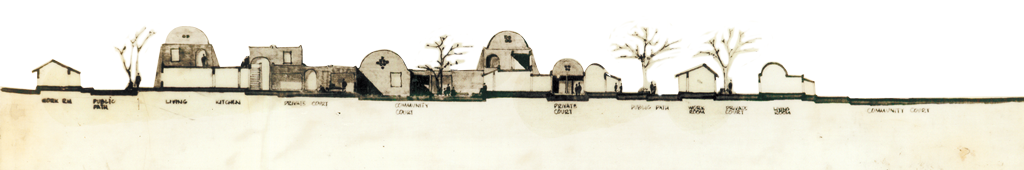
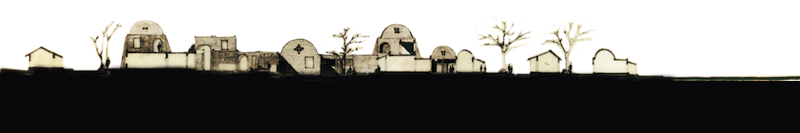
images

diff --git a/js/resourceLibrary.js b/js/resourceLibrary.js
@@ -25,9 +25,10 @@ var resourceLibrary = {
 		{coords: [1200,120], pieces: [
 			// Example set piece:
 			//     {type: 'image or video', source: 'a uri, or {webm: 'a uri', etc}', coords: [x, y, z], dimentions: [width, height]}
-			{type: 'image', source: 'images/TWD_plxD-slum01.png', coords: [  0,   0, -300]},
-			{type: 'image', source: 'images/TWD_plxD-slum02.png', coords: [  0,   0, -100]},
-			{type: 'image', source: 'images/TWD_plxD-slum03.png', coords: [  0,   0,  300]}
+			{type: 'image', source: 'images/scene2/arch.png', coords: [  -300,   0, -300]},
+			{type: 'image', source: 'images/scene2/tents.png', coords: [  150,   -10,  -100]},
+			{type: 'image', source: 'images/scene2/buildings.png', coords: [  0,   200, 1], dimentions: [1024, 170]},
+
 		]},
 		{coords: [1200,180], pieces: [
 			// Example set piece:
@@ -48,10 +49,7 @@ var resourceLibrary = {
 		{coords: [1200,300], pieces: [
 			// Example set piece:
 			//     {type: 'image or video', source: 'a uri, or {webm: 'a uri', etc}', coords: [x, y, z], dimentions: [width, height]}
-			{type: 'image', source: 'images/TWD_plxD-slum01.png', coords: [  0,   0, -300]},
-			{type: 'image', source: 'images/TWD_plxD-slum02.png', coords: [  0,   0, -100]},
-			{type: 'video', source: {mp4: 'video/Puran Interview ArtistBeg3.mp4'}, coords: [250,  50,  100]},
-			{type: 'image', source: 'images/TWD_plxD-slum03.png', coords: [  0,   0,  300]}
+			{type: 'image', source: 'images/cityscape-collage.png', coords: [  0,   0,   0]},
 		]},
 	]
 }
